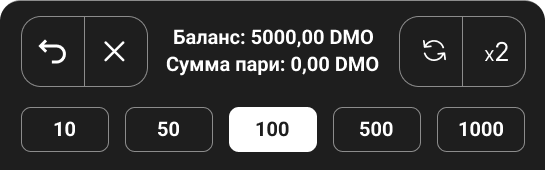
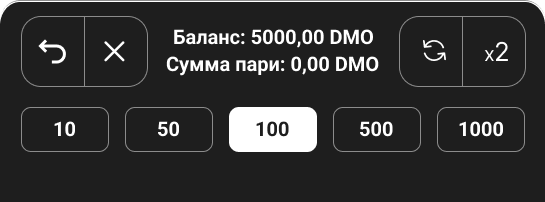
с

diff --git a/index.html b/index.html
@@ -3,22 +3,33 @@
         <script src="https://telegram.org/js/telegram-web-app.js"></script>
         <style>
             body {
-                background-color: #1E1E1E;
+                background-color: #121212;
+                overflow-y: scroll;
+                /* overflow-y: hidden; */
+                /* overflow-x: hidden; */
                 /* max-width: 545px; */
             }
             img {
                 /* width: 400px; */
             }
+            img.bets {
+                /* display: flex; */
+                /* box-sizing: border-box; */
+                margin-left: -8px;
+            }
             img.header {
                 position: fixed;
                 top: 0px;
                 left: 0px;
-
+                overflow-y: hidden;
+                overflow-x: hidden;
             }
             img.panel {
                 position: fixed;
                 bottom: 0px;
                 left: 0px;
+                overflow-y: hidden;
+                overflow-x: hidden;
             }
         </style>
     </head>
@@ -30,8 +41,8 @@
             <img class='bets' src="./bets.png">
             <img class='panel' src="./panel.png">
             <script>
-            document.querySelectorAll('img').forEach((img) => img.width = window.innerWidth);
-            document.querySelector('img.bets').style.padding = `${document.querySelector('img.header').height}px 0px ${document.querySelector('img.panel').height}px 0px`;
+                document.querySelectorAll('img').forEach((img) => img.width = window.innerWidth);
+                document.querySelector('img.bets').style.padding = `${document.querySelector('img.header').height}px 0px ${document.querySelector('img.panel').height}px 0px`;
             </script>
             <!-- <iframe width="560" height="315" src="https://www.youtube.com/embed/ZpCToSHY_jY?si=fh1s1LOf22O0o38d" title="YouTube video player" frameborder="0" allow="accelerometer; autoplay; clipboard-write; encrypted-media; gyroscope; picture-in-picture; web-share" referrerpolicy="strict-origin-when-cross-origin" allowfullscreen></iframe> -->
         </main>
